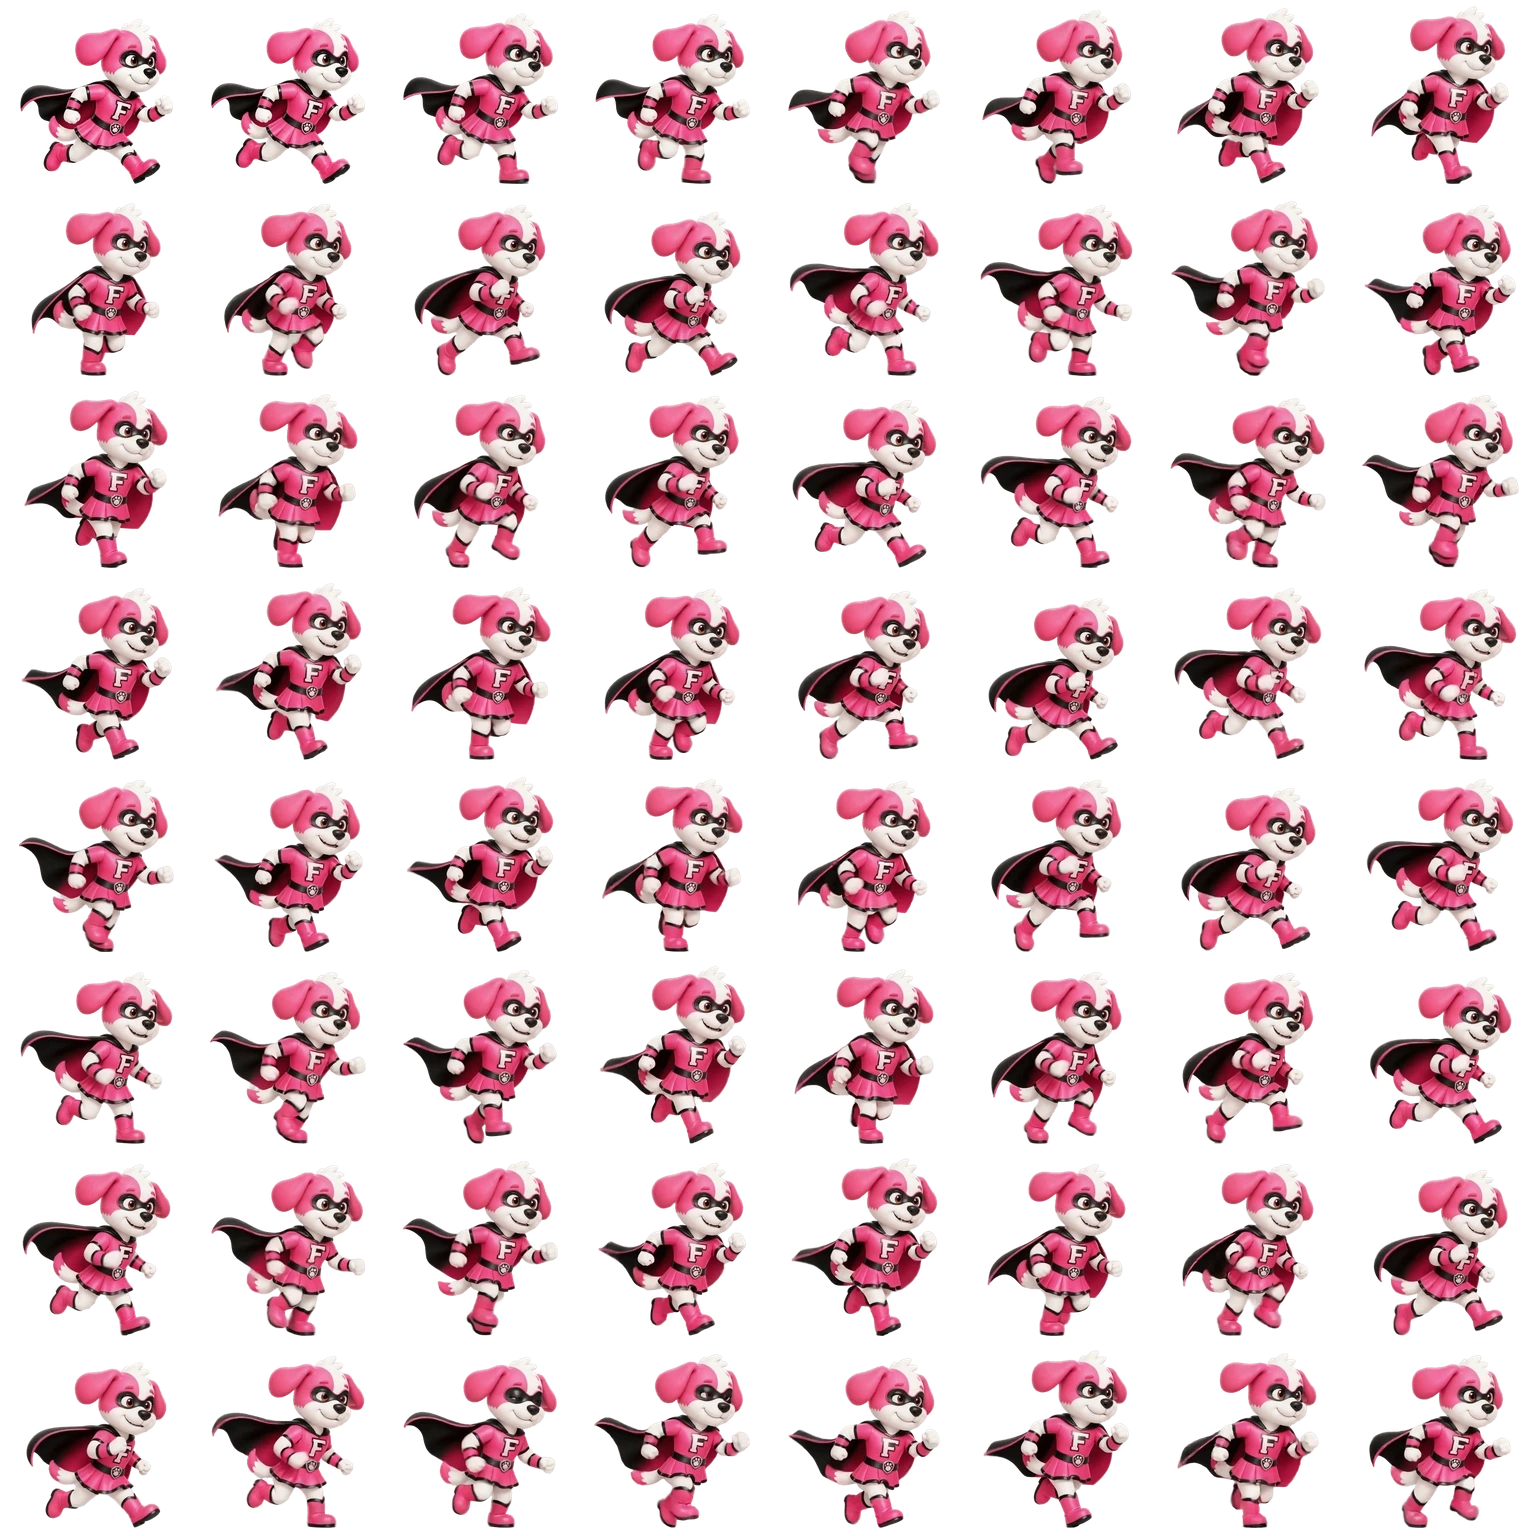
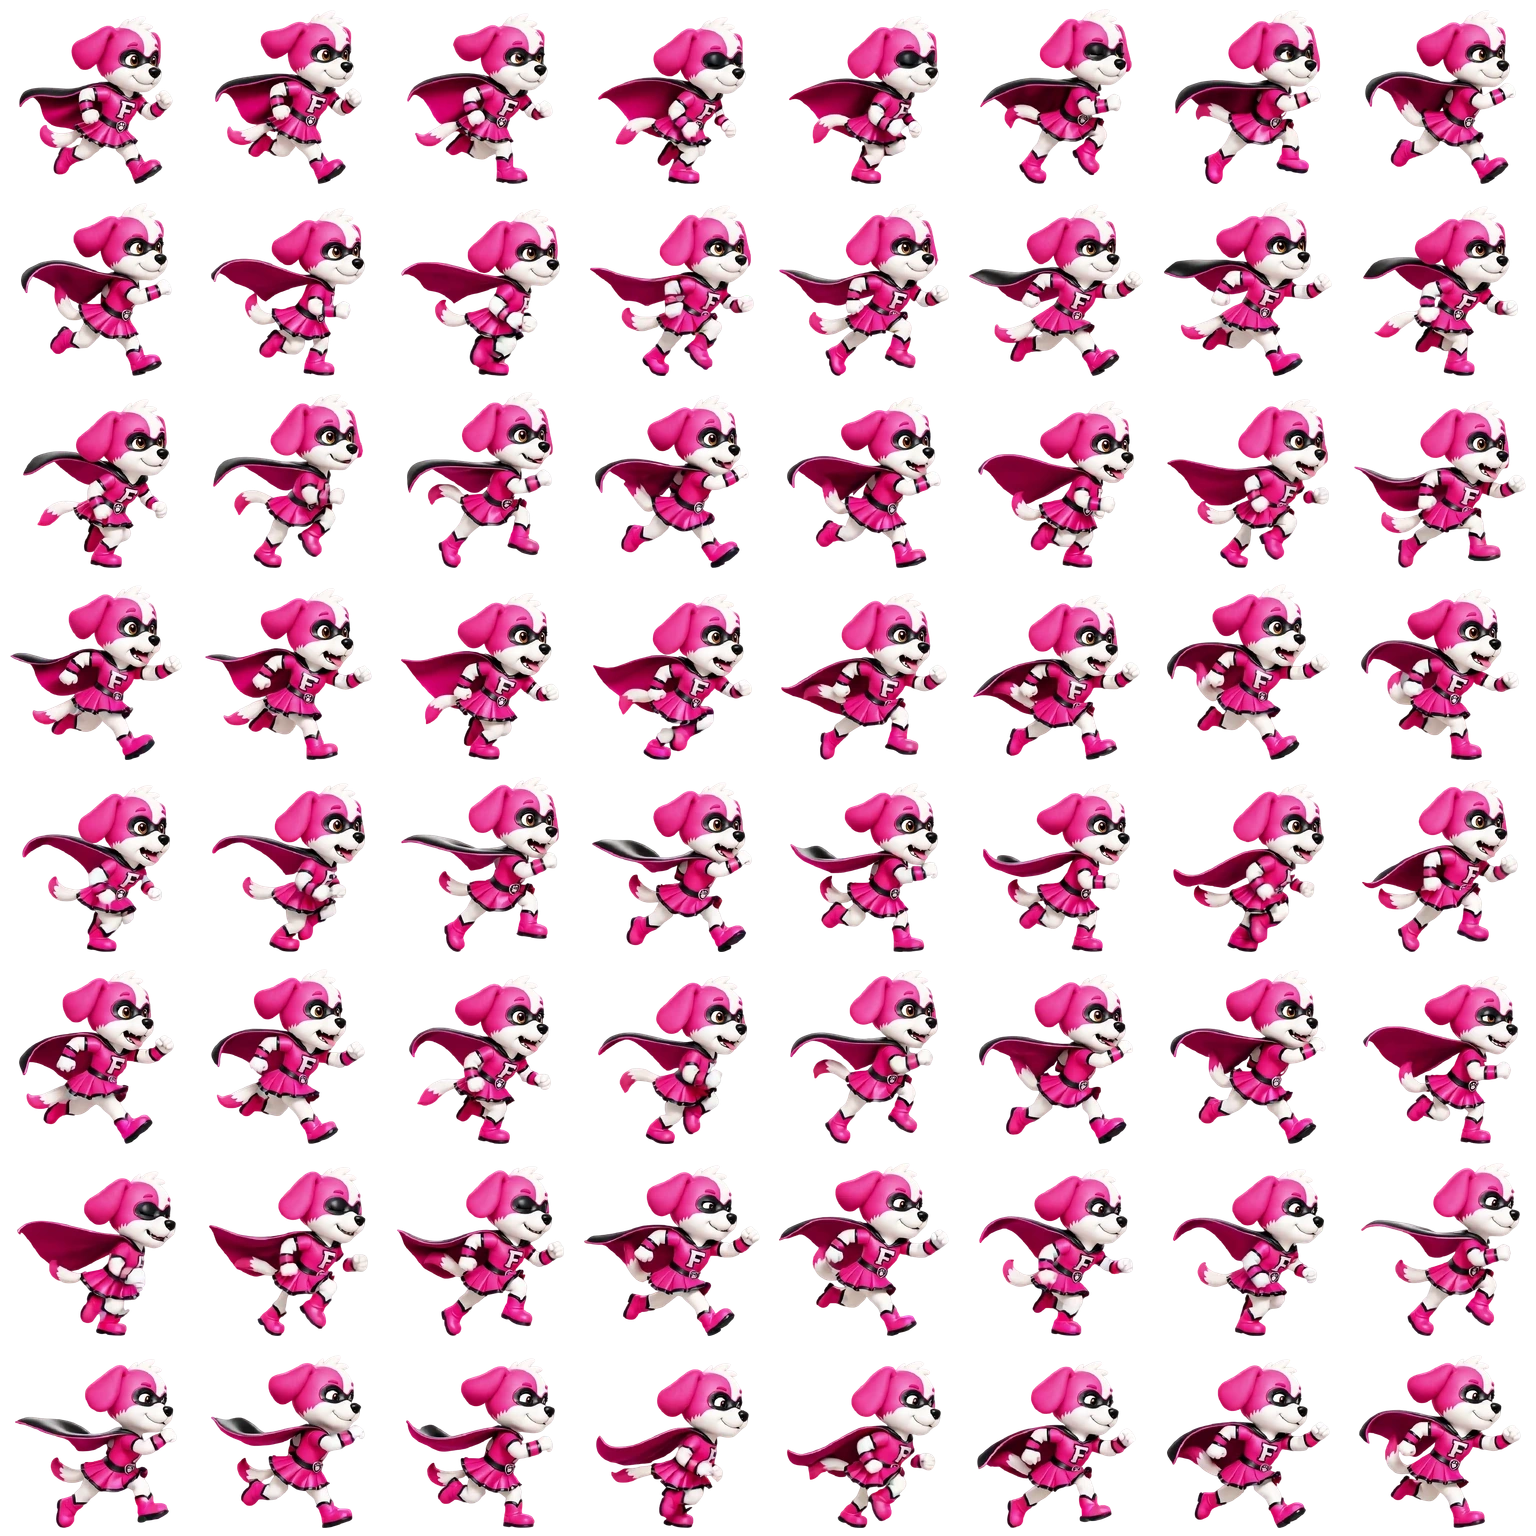
fix(fredrun): use provided Superfrida animations

diff --git a/src/lib/fredrun-ui.test.ts b/src/lib/fredrun-ui.test.ts
@@ -234,6 +234,12 @@ const superfridaManifest = JSON.parse(readFileSync(
       };
     };
   };
+  source: {
+    providedSheets: {
+      walk: { file: string; sha256: string };
+      jump: { file: string; sha256: string };
+    };
+  };
 };
 const lukiManifest = JSON.parse(readFileSync(
   fileURLToPath(new URL("../../public/fredrun/luki-manifest.json", import.meta.url)),
@@ -736,7 +742,7 @@ describe("Fredrun UI surface", () => {
     expect(profileSource).toContain('price: FREDRUN_CYBERFRED_PRICE');
   });
 
-  it("ships unlockable Superfrida with a Pro run and controlled right-facing jump", () => {
+  it("ships unlockable Superfrida with the provided run and one controlled jump cycle", () => {
     expect(superfridaManifest.source).toMatchObject({
[1 lines of base64/hex data omitted]
       autospriteCharacterId: "cmsxmqssh0074vlisw1avagcx",
@@ -748,9 +754,20 @@ describe("Fredrun UI surface", () => {
         firstFrameQuality: "pro",
         backgroundRemoval: "ultra",
         creditsUsed: 39,
-        shippedCreditsUsed: 13,
-        discardedDraftCredits: 26,
+        shippedCreditsUsed: 0,
+        discardedDraftCredits: 39,
+        status: "replaced-by-user-provided-spritesheets",
         sound: false,
+      },
+    });
+    expect(superfridaManifest.source.providedSheets).toEqual({
+      walk: {
+        file: "Superfrida-run.png",
[1 lines of base64/hex data omitted]
+      },
+      jump: {
+        file: "Superfrida-jump.png",
[1 lines of base64/hex data omitted]
       },
     });
     expect(superfridaManifest.atlas).toMatchObject({
@@ -775,16 +792,16 @@ describe("Fredrun UI surface", () => {
       ))).size).toBe(animation.bytes);
     }
     expect(superfridaManifest.atlas.animations.walk).toMatchObject({
-      spritesheetId: "cmsydjj9w004jgayl6qlgcw7z",
-      sourceVideoId: "cmsydgqb70048gaylj4gnd2b0",
-      generationTier: "pro",
+      sourceKind: "provided-spritesheet",
+      sourceFile: "Superfrida-run.png",
+      generationTier: "user-provided",
       facingDirection: "right",
     });
     expect(superfridaManifest.atlas.animations.jump).toMatchObject({
-      spritesheetId: "cmsxmv3q500anvlisvz2l4m60",
-      sourceVideoId: "cmsxmrmb2006lj0sb6kbykf48",
+      sourceKind: "provided-spritesheet",
+      sourceFile: "Superfrida-jump.png",
       facingDirection: "right",
-      sourceUsage: "right-facing-frames-only-resequenced-for-takeoff-apex-landing",
+      sourceUsage: "first-complete-jump-cycle-frames-0-through-39-resampled-to-64",
       runtimePlayback: {
         mode: "full-atlas-synced-to-fredrun-physics",
         durationSeconds: 0.82,
@@ -792,9 +809,11 @@ describe("Fredrun UI surface", () => {
       },
     });
     expect(superfridaManifest.atlas.animations.jump.sourceFrames).toHaveLength(64);
-    expect(superfridaManifest.atlas.animations.jump.sourceFrames.every((frame) => frame <= 15)).toBe(true);
-    expect(viewSource).toContain('walk: { source: "/fredrun/superfrida/walk.webp", columns: 8, frameCount: 64, fps: 16 }');
-    expect(viewSource).toContain('jump: { source: "/fredrun/superfrida/jump.webp", columns: 8, frameCount: 64, fps: 16 }');
+    expect(superfridaManifest.atlas.animations.jump.sourceFrames[0]).toBe(0);
+    expect(superfridaManifest.atlas.animations.jump.sourceFrames.at(-1)).toBe(39);
+    expect(superfridaManifest.atlas.animations.jump.sourceFrames.every((frame) => frame <= 39)).toBe(true);
+    expect(viewSource).toContain('walk: { source: "/fredrun/superfrida/walk.webp?v=provided-sheet-1", columns: 8, frameCount: 64, fps: 16 }');
+    expect(viewSource).toContain('jump: { source: "/fredrun/superfrida/jump.webp?v=provided-sheet-1", columns: 8, frameCount: 64, fps: 16 }');
     expect(viewSource).toContain('victory: { source: "/fredrun/superfrida/victory.webp", columns: 8, frameCount: 64, fps: 16 }');
     expect(profileSource).toContain('export const FREDRUN_SUPERFRIDA_PRICE = 3_000;');
     expect(profileSource).toContain('name: "Superfrida"');

diff --git a/src/components/fredrun-view.tsx b/src/components/fredrun-view.tsx
@@ -148,8 +148,8 @@ const characterSpriteLayouts: Record<FredRunCharacterId, Record<SpriteKey, Chara
     victory: { source: "/fredrun/cyberfred/victory.webp?v=robot-dance-v2", columns: 8, frameCount: 64, fps: 16 },
   },
   superfrida: {
-    walk: { source: "/fredrun/superfrida/walk.webp", columns: 8, frameCount: 64, fps: 16 },
-    jump: { source: "/fredrun/superfrida/jump.webp", columns: 8, frameCount: 64, fps: 16 },
+    walk: { source: "/fredrun/superfrida/walk.webp?v=provided-sheet-1", columns: 8, frameCount: 64, fps: 16 },
+    jump: { source: "/fredrun/superfrida/jump.webp?v=provided-sheet-1", columns: 8, frameCount: 64, fps: 16 },
     victory: { source: "/fredrun/superfrida/victory.webp", columns: 8, frameCount: 64, fps: 16 },
   },
 };
